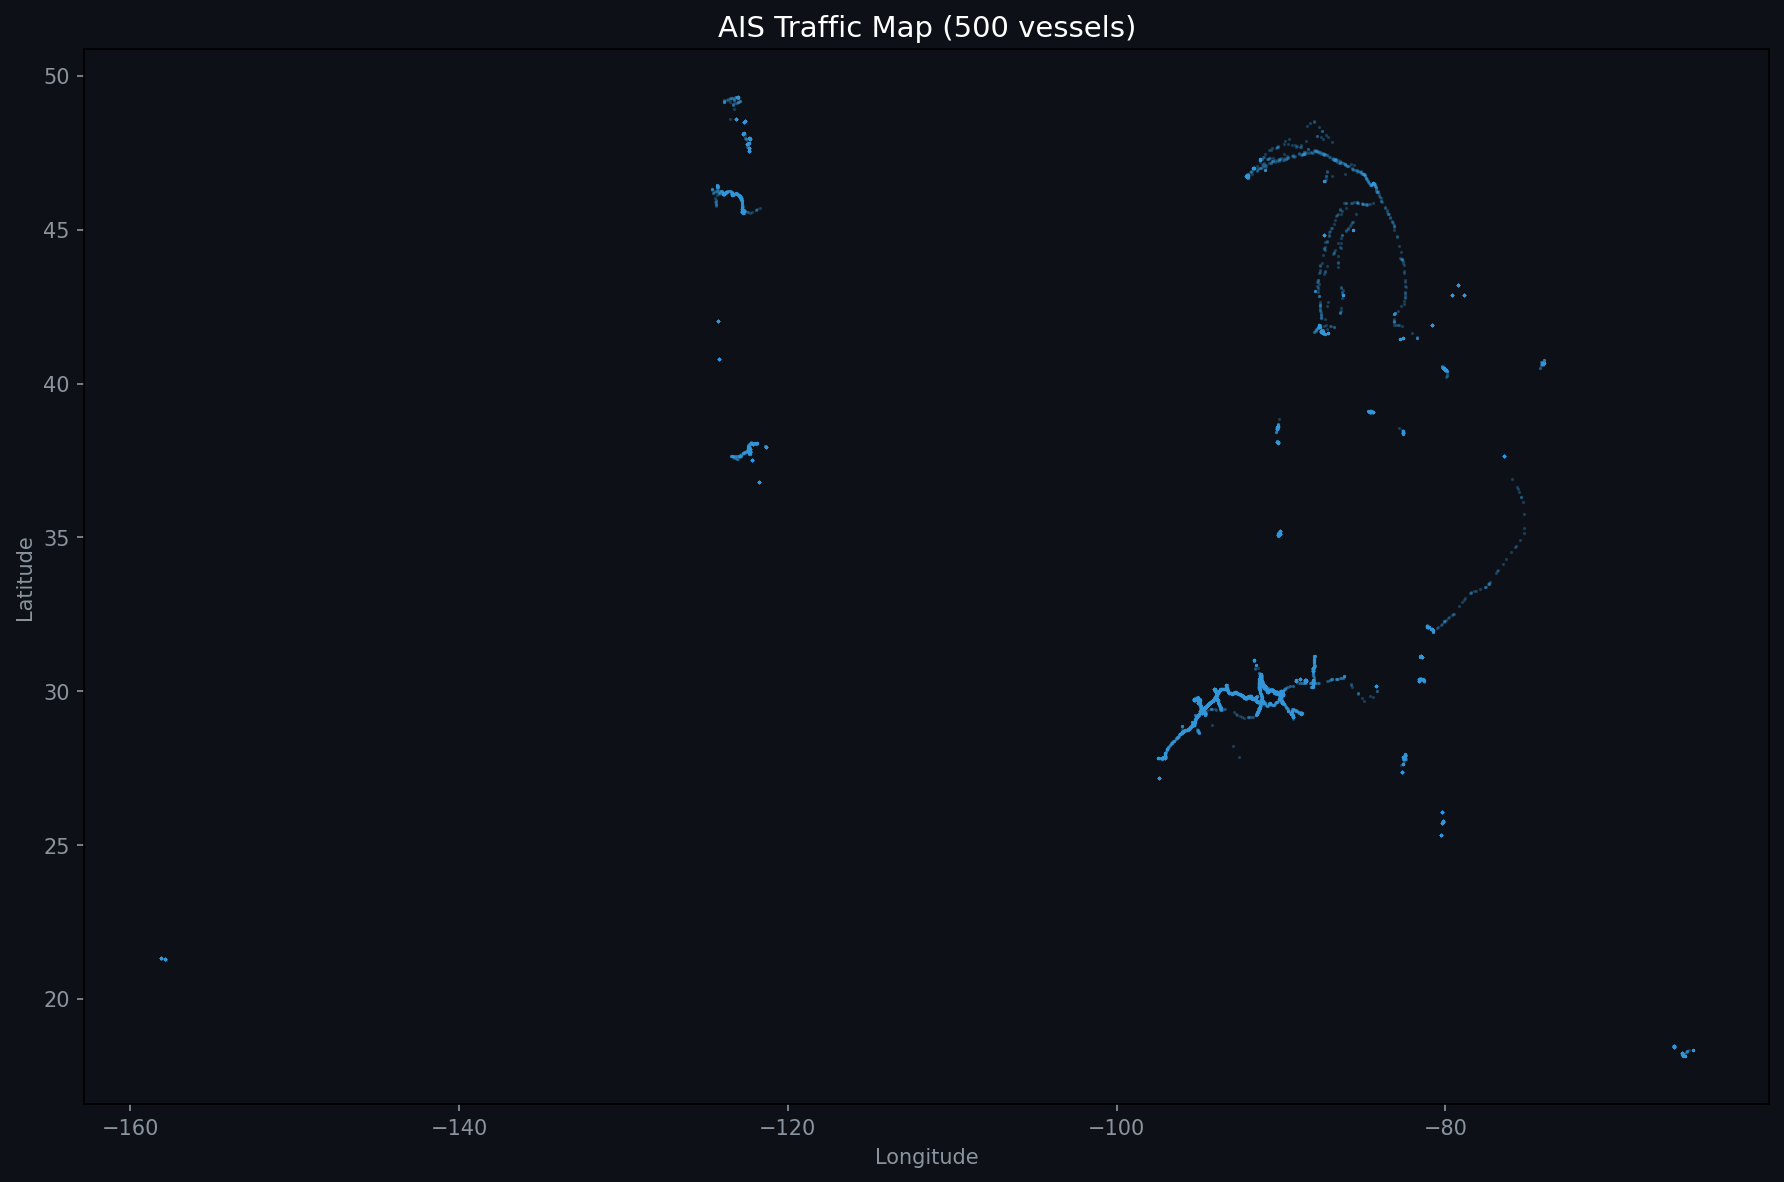
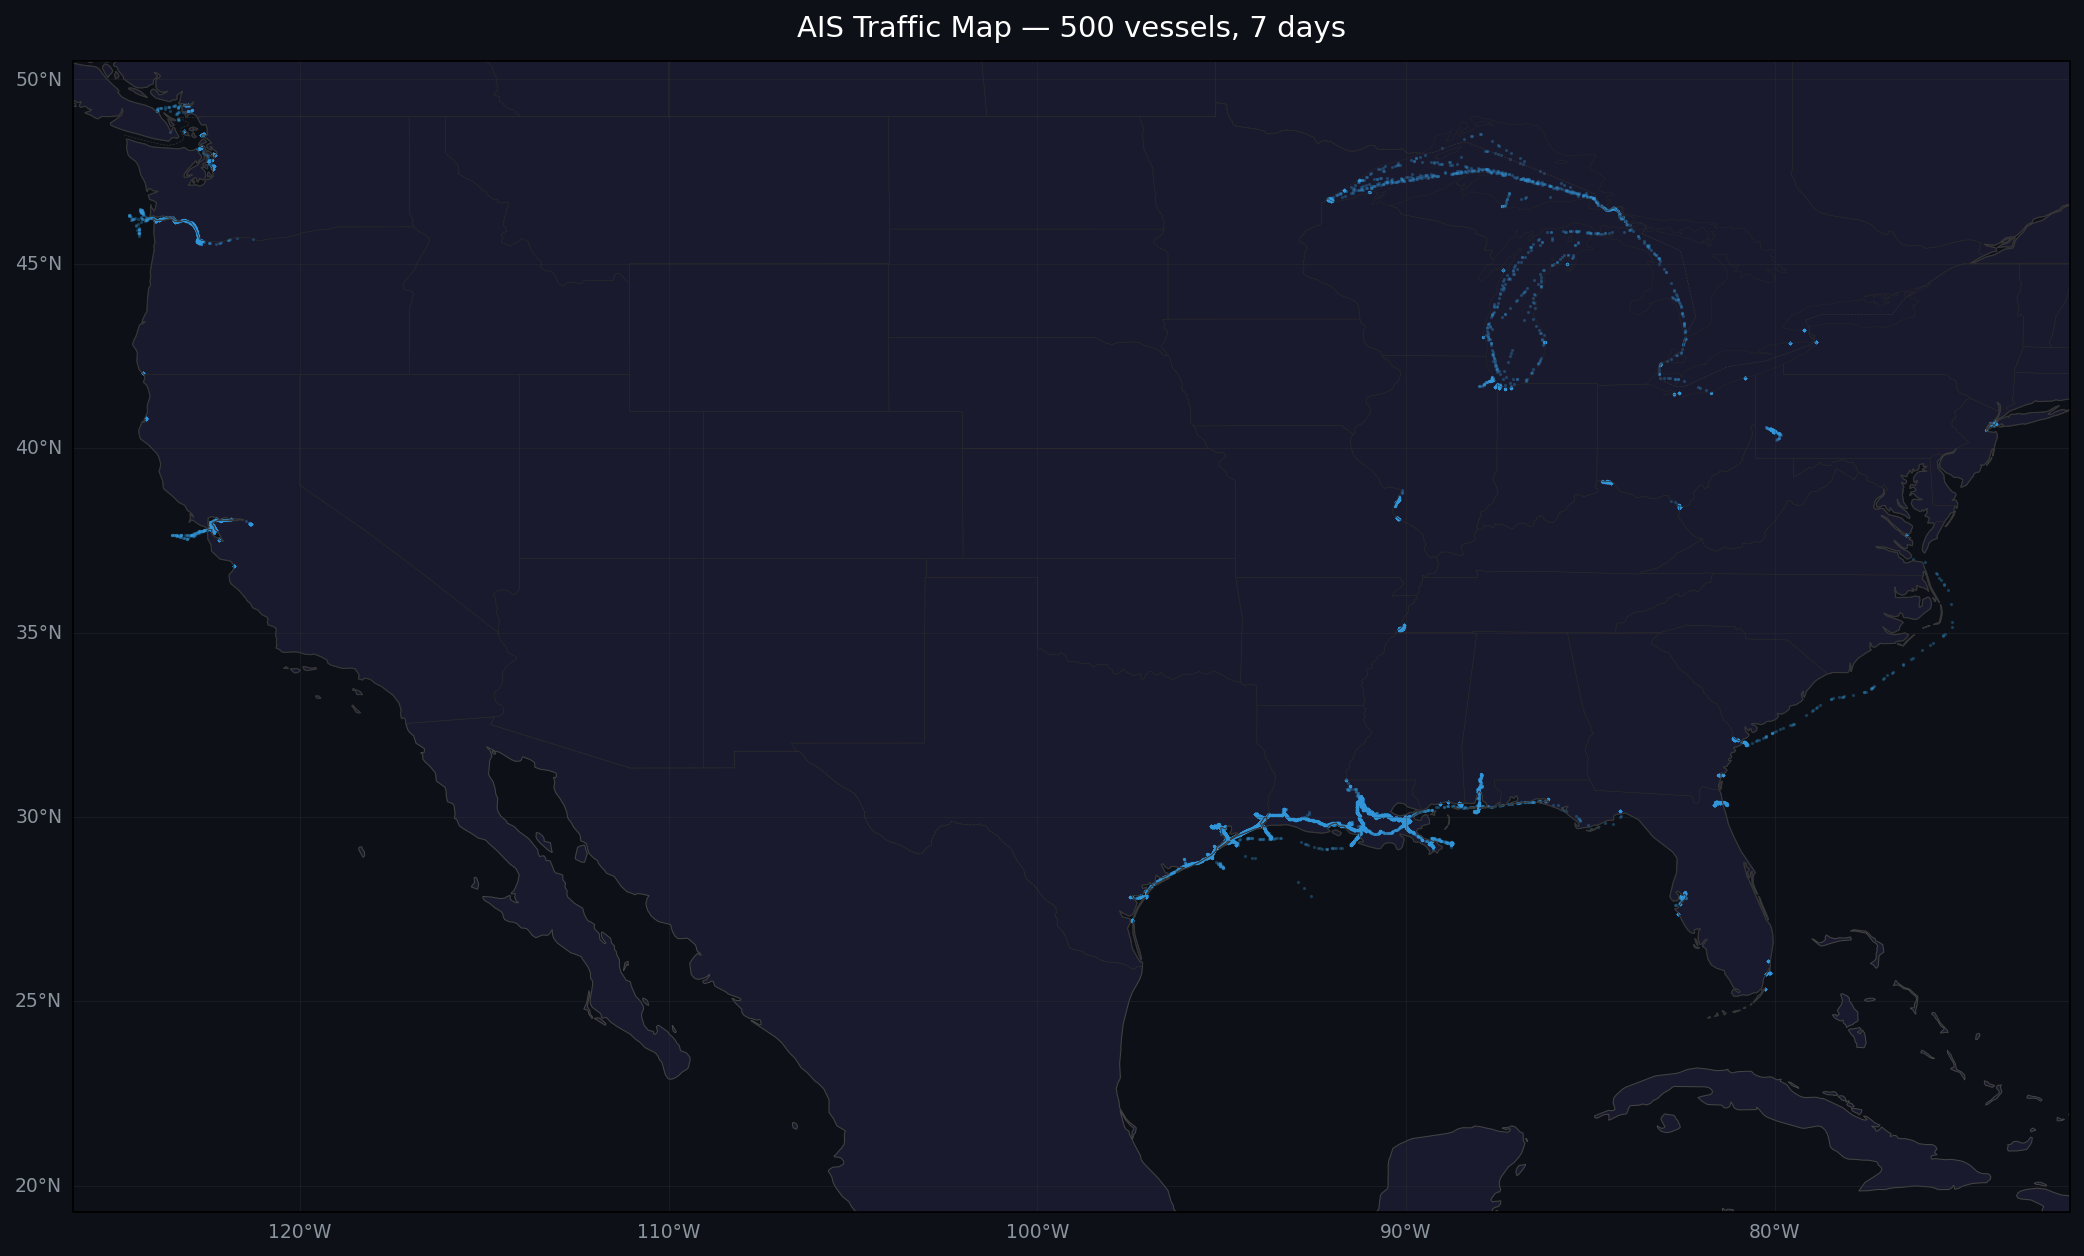
지도 시각화에 cartopy 해안선 추가, 선박별 줌인 적용
- contextily PROJ 충돌 → cartopy로 전환 (해안선, 국경선, 주경계 표시)
- top_vessels_map: 3척 각각 줌인 서브플롯으로 변경
- deep_dive_map: 선박 활동 범위에 맞춰 자동 줌

diff --git a/scripts/regen_map_plots.py b/scripts/regen_map_plots.py
@@ -1,0 +1,162 @@
+"""지도 기반 시각화 재생성 — cartopy 해안선 포함, 선박별 자동 줌"""
+import matplotlib
+matplotlib.use("Agg")
+import matplotlib.pyplot as plt
+import cartopy.crs as ccrs
+import cartopy.feature as cfeature
+import pandas as pd
+import numpy as np
+import logging
+
+logging.basicConfig(level=logging.INFO, format="%(asctime)s %(message)s")
+logger = logging.getLogger()
+OUT = "results/figures"
+DPI = 150
+
+
+def make_map_ax(fig, extent=None, facecolor="#0d1117", subplot_spec=None):
+    """cartopy 기반 지도 축 생성 (해안선 + 국경선 포함)"""
+    if subplot_spec:
+        ax = fig.add_subplot(*subplot_spec, projection=ccrs.PlateCarree(), facecolor=facecolor)
+    else:
+        ax = fig.add_subplot(1, 1, 1, projection=ccrs.PlateCarree(), facecolor=facecolor)
+    ax.add_feature(cfeature.LAND, facecolor="#1a1a2e", edgecolor="none")
+    ax.add_feature(cfeature.OCEAN, facecolor="#0d1117")
+    ax.add_feature(cfeature.COASTLINE, linewidth=0.5, edgecolor="#444444")
+    ax.add_feature(cfeature.BORDERS, linewidth=0.3, edgecolor="#333333", linestyle="--")
+    ax.add_feature(cfeature.STATES, linewidth=0.2, edgecolor="#2a2a2a")
+    if extent:
+        ax.set_extent(extent, crs=ccrs.PlateCarree())
+    gl = ax.gridlines(draw_labels=True, linewidth=0.3, color="#333333", alpha=0.5)
+    gl.top_labels = gl.right_labels = False
+    gl.xlabel_style = gl.ylabel_style = {"color": "#8b949e", "fontsize": 9}
+    return ax
+
+
+def vessel_extent(vessel_df, pad=0.5):
+    """선박 데이터 범위 + 여유(pad) 계산. 최소 1도 범위 보장."""
+    lon_min, lon_max = vessel_df["LON"].min(), vessel_df["LON"].max()
+    lat_min, lat_max = vessel_df["LAT"].min(), vessel_df["LAT"].max()
+    # 최소 1도 범위 보장
+    if lon_max - lon_min < 1:
+        mid = (lon_min + lon_max) / 2
+        lon_min, lon_max = mid - 0.5, mid + 0.5
+    if lat_max - lat_min < 1:
+        mid = (lat_min + lat_max) / 2
+        lat_min, lat_max = mid - 0.5, mid + 0.5
+    return [lon_min - pad, lon_max + pad, lat_min - pad, lat_max + pad]
+
+
+logger.info("Loading data...")
+df = pd.read_parquet("data/ais_results.parquet")
+logger.info("Rows: %d", len(df))
+
+# 전체 지도 범위
+lon_min, lon_max = df["LON"].quantile(0.01) - 2, df["LON"].quantile(0.99) + 2
+lat_min, lat_max = df["LAT"].quantile(0.01) - 2, df["LAT"].quantile(0.99) + 2
+full_extent = [lon_min, lon_max, lat_min, lat_max]
+
+# ═══════════════════════════════════════════════════════════
+# 1. traffic_map — 전체 항적
+# ═══════════════════════════════════════════════════════════
+logger.info("1. traffic_map.png")
+fig = plt.figure(figsize=(14, 9), facecolor="#0d1117")
+ax = make_map_ax(fig, full_extent)
+sample = df.sample(min(80000, len(df)), random_state=42)
+ax.scatter(sample["LON"], sample["LAT"], s=0.3, c="#3498db", alpha=0.3,
+           transform=ccrs.PlateCarree())
+ax.set_title("AIS Traffic Map — 500 vessels, 7 days", color="white", fontsize=14, pad=12)
+plt.tight_layout()
+plt.savefig(f"{OUT}/traffic_map.png", dpi=DPI, bbox_inches="tight", facecolor="#0d1117")
+plt.close()
+
+# ═══════════════════════════════════════════════════════════
+# 2. anomaly_map_static — 정상 vs 이상
+# ═══════════════════════════════════════════════════════════
+logger.info("2. anomaly_map_static.png")
+fig = plt.figure(figsize=(14, 9), facecolor="#0d1117")
+ax = make_map_ax(fig, full_extent)
+
+normal = df[df["anomaly_final"] == 0].sample(
+    min(15000, (df["anomaly_final"] == 0).sum()), random_state=42)
+anomaly = df[df["anomaly_final"] == 1].sample(
+    min(15000, (df["anomaly_final"] == 1).sum()), random_state=42)
+
+ax.scatter(normal["LON"], normal["LAT"], s=0.3, c="#3498db", alpha=0.2,
+           label="Normal", transform=ccrs.PlateCarree())
+ax.scatter(anomaly["LON"], anomaly["LAT"], s=2, c="#e74c3c", alpha=0.5,
+           label="Anomaly", transform=ccrs.PlateCarree())
+ax.set_title("Normal (blue) vs Anomaly (red)", color="white", fontsize=14, pad=12)
+ax.legend(loc="lower left", facecolor="#161b22", edgecolor="#30363d",
+          labelcolor="white", fontsize=10)
+plt.tight_layout()
+plt.savefig(f"{OUT}/anomaly_map_static.png", dpi=DPI, bbox_inches="tight", facecolor="#0d1117")
+plt.close()
+
+# ═══════════════════════════════════════════════════════════
+# 3. top_vessels_map — 이상 상위 3척 (각 선박 줌인 서브플롯)
+# ═══════════════════════════════════════════════════════════
+logger.info("3. top_vessels_map.png")
+anomaly_df = df[df["anomaly_final"] == 1]
+top3 = anomaly_df["MMSI"].value_counts().head(3).index
+top3_counts = anomaly_df["MMSI"].value_counts().head(3).values
+colors_top = ["#ff6b6b", "#ffa94d", "#69db7c"]
+
+fig = plt.figure(figsize=(18, 6), facecolor="#0d1117")
+
+for i, (mmsi, count) in enumerate(zip(top3, top3_counts)):
+    vessel = df[df["MMSI"] == mmsi].sort_values("BaseDateTime")
+    anom = vessel[vessel["anomaly_final"] == 1]
+    ext = vessel_extent(vessel, pad=0.3)
+
+    ax = make_map_ax(fig, ext, subplot_spec=(1, 3, i + 1))
+    ax.plot(vessel["LON"], vessel["LAT"], "-", color=colors_top[i],
+            linewidth=1.5, alpha=0.6, transform=ccrs.PlateCarree())
+    ax.scatter(anom["LON"], anom["LAT"], s=8, color=colors_top[i],
+               zorder=5, transform=ccrs.PlateCarree())
+    # 출발/도착
+    ax.scatter(vessel.iloc[0]["LON"], vessel.iloc[0]["LAT"], s=60, c="green",
+               marker="^", zorder=10, transform=ccrs.PlateCarree())
+    ax.scatter(vessel.iloc[-1]["LON"], vessel.iloc[-1]["LAT"], s=60, c="white",
+               marker="s", zorder=10, transform=ccrs.PlateCarree())
+    ax.set_title(f"MMSI: {mmsi}\n({count} anomalies)", color="white", fontsize=11, pad=8)
+
+fig.suptitle("Top 3 Anomalous Vessel Trajectories", color="white", fontsize=14, y=1.02)
+plt.tight_layout()
+plt.savefig(f"{OUT}/top_vessels_map.png", dpi=DPI, bbox_inches="tight", facecolor="#0d1117")
+plt.close()
+
+# ═══════════════════════════════════════════════════════════
+# 4. deep_dive_map — 이상 1위 선박 (줌인)
+# ═══════════════════════════════════════════════════════════
+logger.info("4. deep_dive_map.png")
+top_mmsi = anomaly_df["MMSI"].value_counts().index[0]
+vessel = df[df["MMSI"] == top_mmsi].sort_values("BaseDateTime")
+anomaly_v = vessel[vessel["anomaly_final"] == 1]
+ext = vessel_extent(vessel, pad=0.2)
+
+fig = plt.figure(figsize=(10, 10), facecolor="#0d1117")
+ax = make_map_ax(fig, ext)
+
+ax.plot(vessel["LON"], vessel["LAT"], "-", color="cyan", linewidth=1.2,
+        alpha=0.7, label="Track", transform=ccrs.PlateCarree())
+ax.scatter(anomaly_v["LON"], anomaly_v["LAT"], s=12, c="red",
+           zorder=5, label="Anomaly", transform=ccrs.PlateCarree())
+
+start, end = vessel.iloc[0], vessel.iloc[-1]
+ax.scatter(start["LON"], start["LAT"], s=100, c="green", marker="^",
+           zorder=10, label="Start", transform=ccrs.PlateCarree())
+ax.scatter(end["LON"], end["LAT"], s=100, c="red", marker="s",
+           zorder=10, label="End", transform=ccrs.PlateCarree())
+
+n_anom = len(anomaly_v)
+n_total = len(vessel)
+ax.set_title(f"MMSI: {top_mmsi} — {n_total:,} records, {n_anom:,} anomalies",
+             color="white", fontsize=14, pad=12)
+ax.legend(loc="lower left", facecolor="#161b22", edgecolor="#30363d",
+          labelcolor="white", fontsize=9)
+plt.tight_layout()
+plt.savefig(f"{OUT}/deep_dive_map.png", dpi=DPI, bbox_inches="tight", facecolor="#0d1117")
+plt.close()
+
+logger.info("All map plots regenerated with coastlines!")
